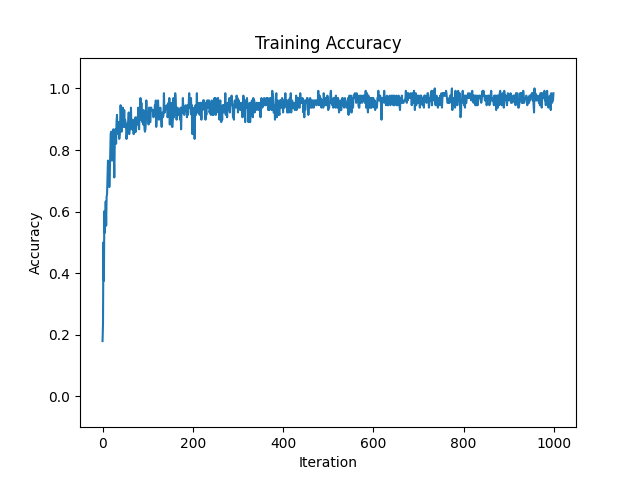
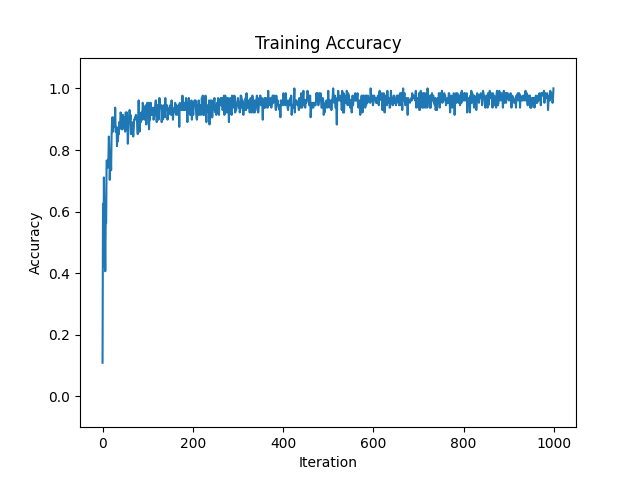
boost in performance

Changed region(s): [[0.1562, 0.1875, 0.875, 0.6562], [0.1562, 0.7188, 0.1875, 0.75]]

diff --git a/main_np.py b/main_np.py
@@ -17,15 +17,15 @@ if __name__ == '__main__':
     
     # reinit
     np.random.seed(1337)
-    layer1 = layer_init(784, 128)
-    layer2 = layer_init(128, 10)
+    layer1 = layer_init(784, 512)
+    layer2 = layer_init(512, 10)
 
     learning_rate = 0.001
-    BS = 128
+    batch_size = 128
     losses, accuracies = [], []
     
     for i in tqdm(range(1000), desc = 'Training Numpy MLP'):
-        sample = np.random.randint(0, X_train.shape[0], size=(BS))
+        sample = np.random.randint(0, X_train.shape[0], size=(batch_size))
         X = X_train[sample].reshape((-1, 28*28))
         Y = Y_train[sample]
         x_loss, x_layer2, d_layer1, d_layer2 = MLP(X, Y, layer1, layer2)

diff --git a/mlp_torch.py b/mlp_torch.py
@@ -5,9 +5,11 @@ import torch.nn.functional as F
 class MLP(torch.nn.Module):
   def __init__(self):
     super(MLP, self).__init__()
-    self.layer1 = nn.Linear(784, 128, bias=False)
-    self.layer2 = nn.Linear(128, 10, bias=False)
+    
+    self.layer1 = nn.Linear(784, 512, bias=False)
+    self.layer2 = nn.Linear(512, 10, bias=False)
     self.softmax = nn.LogSoftmax(dim=1)
+    
   def forward(self, x):
     x = F.relu(self.layer1(x))
     x = self.layer2(x)

diff --git a/README.md b/README.md
@@ -16,7 +16,7 @@ If you are trying to understand what goes on "under the hood" in neural networks
 
 | Test Accuracy | Batch Size | Number of Layers |
 |----------|------------|-----------------|
-| 0.9328    | 128        | 2               |
+| 0.9476    | 128        | 2               |
 
 
 
@@ -28,4 +28,4 @@ If you are trying to understand what goes on "under the hood" in neural networks
 
 | Test Accuracy | Batch Size | Number of Layers |
 |----------|------------|-----------------|
-| 0.9635     | 128        | 2               |
+| 0.9667     | 128        | 2               |
